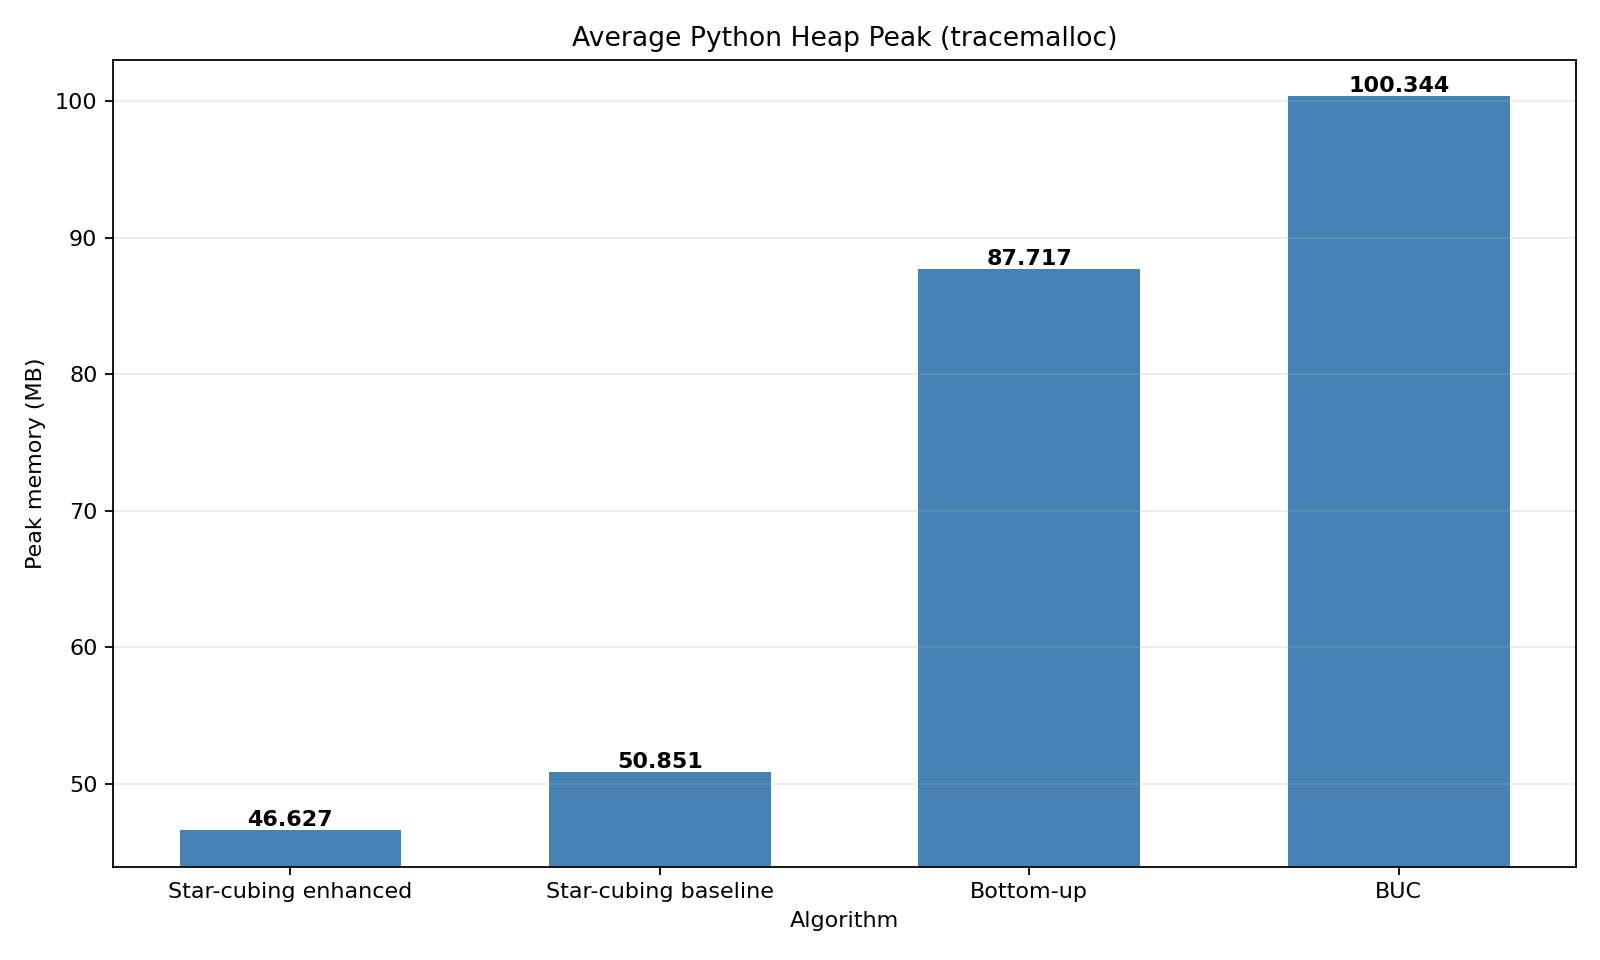
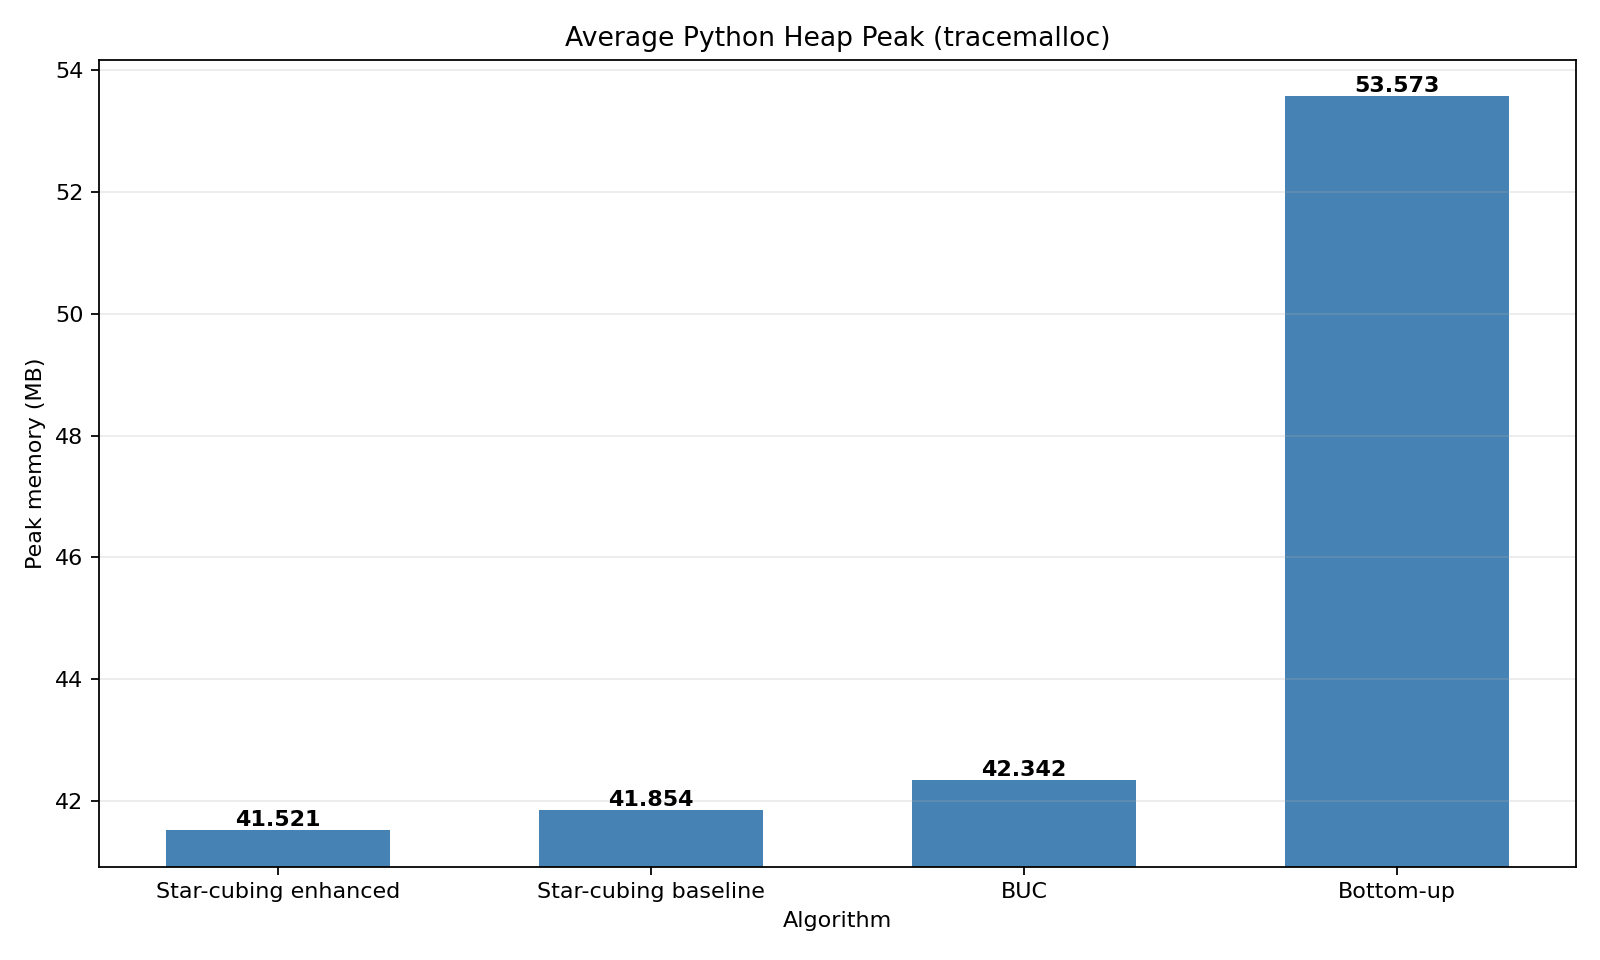
feat: cập nhật baseline star-cubing và đồng bộ benchmark 1M rows
- refactor star_cubing baseline theo cấu trúc đệ quy, dùng tree/list aggregation

- cập nhật benchmark logs và charts theo lần chạy mới nhất 1000000 rows

- cập nhật README snapshot theo số liệu mới

- cập nhật benchmark_report theo cấu hình và kết quả mới nhất

diff --git a/src/algorithm/star_cubing.py b/src/algorithm/star_cubing.py
@@ -1,8 +1,10 @@
-"""Star-cubing baseline that preserves the recursive pseudocode structure."""
+"""Star-cubing baseline that preserves recursive pseudocode flow
+while avoiding hashmap-based aggregation.
+"""
 
 from __future__ import annotations
 
-from typing import Dict, Iterable, List, Optional, Sequence, Tuple, Union
+from typing import Iterable, List, Optional, Sequence, Tuple, Union
 
 from .buc import FactRow
 
@@ -26,8 +28,8 @@ class StarTreeNode:
         self.total_sales = float(total_sales)
         self.count_txn = int(count_txn)
         self.parent = parent
-        self.first_child: Optional[StarTreeNode] = None
-        self.sibling: Optional[StarTreeNode] = None
+        self.first_child: Optional["StarTreeNode"] = None
+        self.sibling: Optional["StarTreeNode"] = None
 
     @property
     def is_leaf(self) -> bool:
@@ -38,7 +40,7 @@ class CubeTreeNode:
     """Node in cube-tree that references one conditional Star-tree."""
 
     def __init__(self) -> None:
-        self.star_tree: Optional[StarTree] = None
+        self.star_tree: Optional["StarTree"] = None
 
 
 class StarTree:
@@ -49,32 +51,138 @@ class StarTree:
         self.cube_tree_children: List[CubeTreeNode] = []
 
 
+class SupportEntry:
+    """Linked-list entry for one dimension value support."""
+
+    def __init__(
+        self,
+        value: int,
+        total_sales: float,
+        next_entry: Optional["SupportEntry"] = None,
+    ) -> None:
+        self.value = int(value)
+        self.total_sales = float(total_sales)
+        self.next = next_entry
+
+
+class AggregateEntry:
+    """Linked-list entry for one cuboid aggregate."""
+
+    def __init__(
+        self,
+        key: CubeKey,
+        total_sales: float,
+        count_txn: int,
+        next_entry: Optional["AggregateEntry"] = None,
+    ) -> None:
+        self.key = key
+        self.total_sales = float(total_sales)
+        self.count_txn = int(count_txn)
+        self.next = next_entry
+
+
+class AggregateList:
+    """Linked-list container for cuboid aggregates."""
+
+    def __init__(self) -> None:
+        self.head: Optional[AggregateEntry] = None
+
+    def add_or_update(self, key: CubeKey, sales: float, count_txn: int) -> None:
+        current = self.head
+        while current is not None:
+            if current.key == key:
+                current.total_sales += float(sales)
+                current.count_txn += int(count_txn)
+                return
+            current = current.next
+        self.head = AggregateEntry(
+            key=key,
+            total_sales=float(sales),
+            count_txn=int(count_txn),
+            next_entry=self.head,
+        )
+
+    def to_rows(self, dimension_names: Sequence[str], min_sup: float) -> List[dict]:
+        rows: List[dict] = []
+        current = self.head
+        while current is not None:
+            if current.total_sales >= min_sup:
+                row = {}
+                index = 0
+                while index < len(dimension_names):
+                    row[dimension_names[index]] = current.key[index]
+                    index += 1
+                row["total_sales"] = float(current.total_sales)
+                row["count_txn"] = int(current.count_txn)
+                rows.append(row)
+            current = current.next
+        rows.sort(key=lambda r: tuple(str(r[name]) for name in dimension_names))
+        return rows
+
+
 def _validate_rows(rows: Sequence[FactRow], dim_count: int) -> None:
     for row in rows:
         if len(row.dimensions) != dim_count:
             raise ValueError("row dimension length does not match dimension_names")
 
 
+def _support_add(
+    support_heads: List[Optional[SupportEntry]],
+    dim_index: int,
+    value: int,
+    sales: float,
+) -> None:
+    head = support_heads[dim_index]
+    current = head
+    while current is not None:
+        if current.value == value:
+            current.total_sales += float(sales)
+            return
+        current = current.next
+    support_heads[dim_index] = SupportEntry(
+        value=value,
+        total_sales=float(sales),
+        next_entry=head,
+    )
+
+
+def _support_get(
+    support_heads: Sequence[Optional[SupportEntry]],
+    dim_index: int,
+    value: int,
+) -> float:
+    current = support_heads[dim_index]
+    while current is not None:
+        if current.value == value:
+            return float(current.total_sales)
+        current = current.next
+    return 0.0
+
+
 def _build_global_support(
     rows: Sequence[FactRow],
     dim_count: int,
-) -> List[Dict[int, float]]:
-    support: List[Dict[int, float]] = [{} for _ in range(dim_count)]
+) -> List[Optional[SupportEntry]]:
+    support_heads: List[Optional[SupportEntry]] = [None] * dim_count
     for row in rows:
-        for index, value in enumerate(row.dimensions):
-            bucket = support[index]
-            bucket[value] = bucket.get(value, 0.0) + float(row.sales)
-    return support
+        for dim_index, value in enumerate(row.dimensions):
+            _support_add(
+                support_heads=support_heads,
+                dim_index=dim_index,
+                value=int(value),
+                sales=float(row.sales),
+            )
+    return support_heads
 
 
 def _compress_path_by_support(
     path: Tuple[int, ...],
-    global_support: Sequence[Dict[int, float]],
+    global_support: Sequence[Optional[SupportEntry]],
     min_sup: float,
 ) -> CubeKey:
     reduced: List[DimensionValue] = []
-    for index, value in enumerate(path):
-        if global_support[index].get(value, 0.0) < min_sup:
+    for dim_index, value in enumerate(path):
+        if _support_get(global_support, dim_index, int(value)) < min_sup:
             reduced.append("ALL")
         else:
             reduced.append(int(value))
@@ -82,19 +190,32 @@ def _compress_path_by_support(
 
 
 def _expand_rollups(path: CubeKey) -> List[CubeKey]:
-    concrete_positions = [index for index, value in enumerate(path) if value != "ALL"]
+    concrete_positions = []
+    for idx, value in enumerate(path):
+        if value != "ALL":
+            concrete_positions.append(idx)
+
     output: List[CubeKey] = []
-    for mask in range(1 << len(concrete_positions)):
+    mask = 0
+    end = 1 << len(concrete_positions)
+    while mask < end:
         rolled = list(path)
-        for bit_index, position in enumerate(concrete_positions):
-            if mask & (1 << bit_index):
-                continue
-            rolled[position] = "ALL"
+        bit_index = 0
+        while bit_index < len(concrete_positions):
+            position = concrete_positions[bit_index]
+            if (mask & (1 << bit_index)) == 0:
+                rolled[position] = "ALL"
+            bit_index += 1
         output.append(tuple(rolled))
+        mask += 1
     return output
 
 
-def _find_or_create_child(parent: StarTreeNode, value: DimensionValue, depth: int) -> StarTreeNode:
+def _find_or_create_child(
+    parent: StarTreeNode,
+    value: DimensionValue,
+    depth: int,
+) -> StarTreeNode:
     current = parent.first_child
     previous: Optional[StarTreeNode] = None
     while current is not None:
@@ -140,22 +261,21 @@ def _path_from_node(node: StarTreeNode, dim_count: int) -> CubeKey:
 def _append_leaf_rollups(
     node: StarTreeNode,
     dim_count: int,
-    aggregate: Dict[CubeKey, Tuple[float, int]],
+    aggregate_list: AggregateList,
 ) -> None:
     base_path = _path_from_node(node, dim_count)
     for cuboid in _expand_rollups(base_path):
-        sales_sum, count_sum = aggregate.get(cuboid, (0.0, 0))
-        aggregate[cuboid] = (
-            sales_sum + float(node.total_sales),
-            count_sum + int(node.count_txn),
+        aggregate_list.add_or_update(
+            key=cuboid,
+            sales=float(node.total_sales),
+            count_txn=int(node.count_txn),
         )
 
 
 def insert_or_aggregate(cnode: StarTreeNode, target_star_tree: StarTree) -> None:
     """Line 2 helper from the pseudocode.
 
-    In this baseline, conditional trees are not materialized; the recursive
-    scaffold is preserved while this helper remains a no-op.
+    Conditional trees are not materialized in this baseline scaffold.
     """
 
     _ = cnode
@@ -167,30 +287,20 @@ def starcubing(
     cnode: StarTreeNode,
     min_sup: float,
     dim_count: int,
-    aggregate: Dict[CubeKey, Tuple[float, int]],
+    aggregate_list: AggregateList,
 ) -> None:
     """Recursive traversal that follows the original pseudocode flow."""
 
-    # 1. for each non-null child C of T's cube-tree
     for C in T.cube_tree_children:
-        # 2. insert or aggregate cnode into C's star-tree
         if C.star_tree is not None:
             insert_or_aggregate(cnode, C.star_tree)
 
     C_C: Optional[CubeTreeNode] = None
 
-    # 3. if (cnode.count >= min_sup)
     if cnode.total_sales >= min_sup:
-        # 4-5. if (cnode != root) output cnode.count
-        # Node-level output is represented through leaf rollups in this baseline.
-
-        # 6. if (cnode is a leaf)
         if cnode.is_leaf and cnode.depth >= 0:
-            # 7. output cnode.count
-            _append_leaf_rollups(cnode, dim_count, aggregate)
-        # 8. else initiate a new cube-tree
+            _append_leaf_rollups(cnode, dim_count, aggregate_list)
         else:
-            # 9-11. create C_C and initialize T_C.root.count
             if cnode.depth >= 0:
                 C_C = CubeTreeNode()
                 T.cube_tree_children.append(C_C)
@@ -199,33 +309,30 @@ def starcubing(
                 T_C.root.total_sales = cnode.total_sales
                 T_C.root.count_txn = cnode.count_txn
 
-    # 14-15. recurse on first child
     if not cnode.is_leaf and cnode.first_child is not None:
-        starcubing(T, cnode.first_child, min_sup, dim_count, aggregate)
+        starcubing(T, cnode.first_child, min_sup, dim_count, aggregate_list)
 
-    # 16-18. recurse on conditional tree then remove it
     if (
         C_C is not None
         and C_C.star_tree is not None
         and C_C.star_tree.root.first_child is not None
     ):
-        starcubing(C_C.star_tree, C_C.star_tree.root, min_sup, dim_count, aggregate)
+        starcubing(C_C.star_tree, C_C.star_tree.root, min_sup, dim_count, aggregate_list)
         if C_C in T.cube_tree_children:
             T.cube_tree_children.remove(C_C)
     elif C_C is not None and C_C in T.cube_tree_children:
         T.cube_tree_children.remove(C_C)
 
-    # 19-20. recurse on sibling
     if cnode.sibling is not None:
-        starcubing(T, cnode.sibling, min_sup, dim_count, aggregate)
+        starcubing(T, cnode.sibling, min_sup, dim_count, aggregate_list)
 
 
 def compute_star_cubing_cube(
     rows: Iterable[FactRow],
     dimension_names: Sequence[str],
     min_sup: float,
-) -> List[Dict[str, Union[int, str, float]]]:
-    """Compute iceberg cuboids while preserving pseudocode architecture."""
+) -> List[dict]:
+    """Compute iceberg cuboids with tree/list based baseline only."""
 
     materialized_rows = rows if isinstance(rows, list) else list(rows)
     if not materialized_rows:
@@ -234,38 +341,23 @@ def compute_star_cubing_cube(
     dim_count = len(dimension_names)
     _validate_rows(materialized_rows, dim_count)
 
-    # scan R twice: (1) aggregate leaves and (2) build global support.
-    leaf_aggregates: Dict[Tuple[int, ...], Tuple[float, int]] = {}
-    for row in materialized_rows:
-        key = tuple(int(value) for value in row.dimensions)
-        sales, count = leaf_aggregates.get(key, (0.0, 0))
-        leaf_aggregates[key] = (sales + float(row.sales), count + int(row.count_txn))
-
     global_support = _build_global_support(materialized_rows, dim_count)
 
-    # create star-tree T from compressed leaves.
     T = StarTree()
-    for key, (sales, count) in leaf_aggregates.items():
+    for row in materialized_rows:
+        key = tuple(int(value) for value in row.dimensions)
         reduced_key = _compress_path_by_support(key, global_support, min_sup)
-        _insert_compressed_transaction(T, reduced_key, sales, count)
+        _insert_compressed_transaction(
+            tree=T,
+            transaction=reduced_key,
+            sales=float(row.sales),
+            count_txn=int(row.count_txn),
+        )
 
-    # output count of T.root and call starcubing(T, T.root)
-    aggregate: Dict[CubeKey, Tuple[float, int]] = {}
-    starcubing(T, T.root, float(min_sup), dim_count, aggregate)
+    aggregate_list = AggregateList()
+    starcubing(T, T.root, float(min_sup), dim_count, aggregate_list)
 
-    results: List[Dict[str, Union[int, str, float]]] = []
-    for cuboid_key, (sales, count) in aggregate.items():
-        if sales < min_sup:
-            continue
-        row: Dict[str, Union[int, str, float]] = {
-            dim_name: cuboid_key[idx] for idx, dim_name in enumerate(dimension_names)
-        }
-        row["total_sales"] = float(sales)
-        row["count_txn"] = int(count)
-        results.append(row)
-
-    results.sort(key=lambda row: tuple(str(row[dim]) for dim in dimension_names))
-    return results
+    return aggregate_list.to_rows(dimension_names=dimension_names, min_sup=float(min_sup))
 
 
 __all__ = ["compute_star_cubing_cube"]

diff --git a/README.md b/README.md
@@ -43,14 +43,14 @@ The benchmark reads raw POS CSV rows, performs ETL cleaning and encoding, then r
 
 ## Latest Full-Size Snapshot
 
-Source: `docs/benchmark/logs/summary_by_algorithm.csv` after `--sizes full --raw-limit 5000000`
+Source: `docs/benchmark/logs/summary_by_algorithm.csv` after `--sizes 1000000 --raw-limit 1500000`
 
 | Algorithm            | Elapsed Mean (s) | CPU Mean (s) | Peak tracemalloc (MB) | Output (KB) | Cube Rows |
 | :------------------- | ---------------: | -----------: | --------------------: | ----------: | --------: |
-| Star-cubing baseline |           81.263 |       79.625 |                50.851 |    1911.252 |     57202 |
-| Star-cubing enhanced |          245.856 |      241.078 |                46.627 |    1912.990 |     57252 |
-| BUC                  |         1381.075 |     1347.500 |               100.344 |    1925.487 |     57637 |
-| Bottom-up            |         3015.181 |     2980.281 |                87.717 |    1925.487 |     57637 |
+| Star-cubing enhanced |           39.952 |       35.984 |                41.521 |    1645.164 |     50851 |
+| BUC                  |          209.483 |      171.953 |                42.342 |    1688.813 |     52182 |
+| Star-cubing baseline |          403.231 |      337.797 |                41.854 |    1636.146 |     50583 |
+| Bottom-up            |          726.236 |      609.641 |                53.573 |    1688.813 |     52182 |
 
 ## Benchmark Outputs
 
